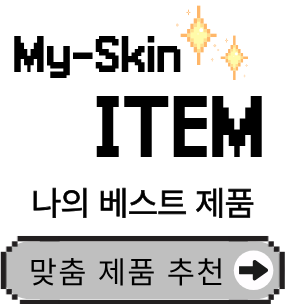
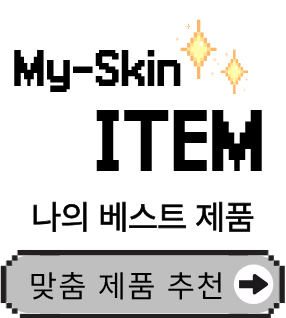
fix(home): 2행 버튼 크기 통일(286x318)로 하단 정렬 — 단차 제거
맞춤추천 아이콘을 위쪽 투명 여백으로 비교 아이콘과 같은 높이로 맞추고,
임시 Transform 이동 핵을 제거한다.

diff --git a/lib/features/home/presentation/screens/home_screen.dart b/lib/features/home/presentation/screens/home_screen.dart
@@ -180,14 +180,11 @@ class HomeScreen extends ConsumerWidget {
           crossAxisAlignment: CrossAxisAlignment.end,
           children: [
             Expanded(
-              // 새 비교 아이콘이 옆 버튼보다 살짝 높아 하단 단차를 맞춘다.
-              child: Transform.translate(
-                offset: const Offset(0, 6),
-                child: _ImageButton(
-                  asset: AppAssets.homeCompare,
-                  label: '같이 써도 될까? 성분 비교 추천',
-                  onTap: () => context.push('/compare'),
-                ),
+              // 두 이미지를 같은 크기(286x318)로 맞춰 하단이 자연 정렬된다.
+              child: _ImageButton(
+                asset: AppAssets.homeCompare,
+                label: '같이 써도 될까? 성분 비교 추천',
+                onTap: () => context.push('/compare'),
               ),
             ),
             const SizedBox(width: 28),
